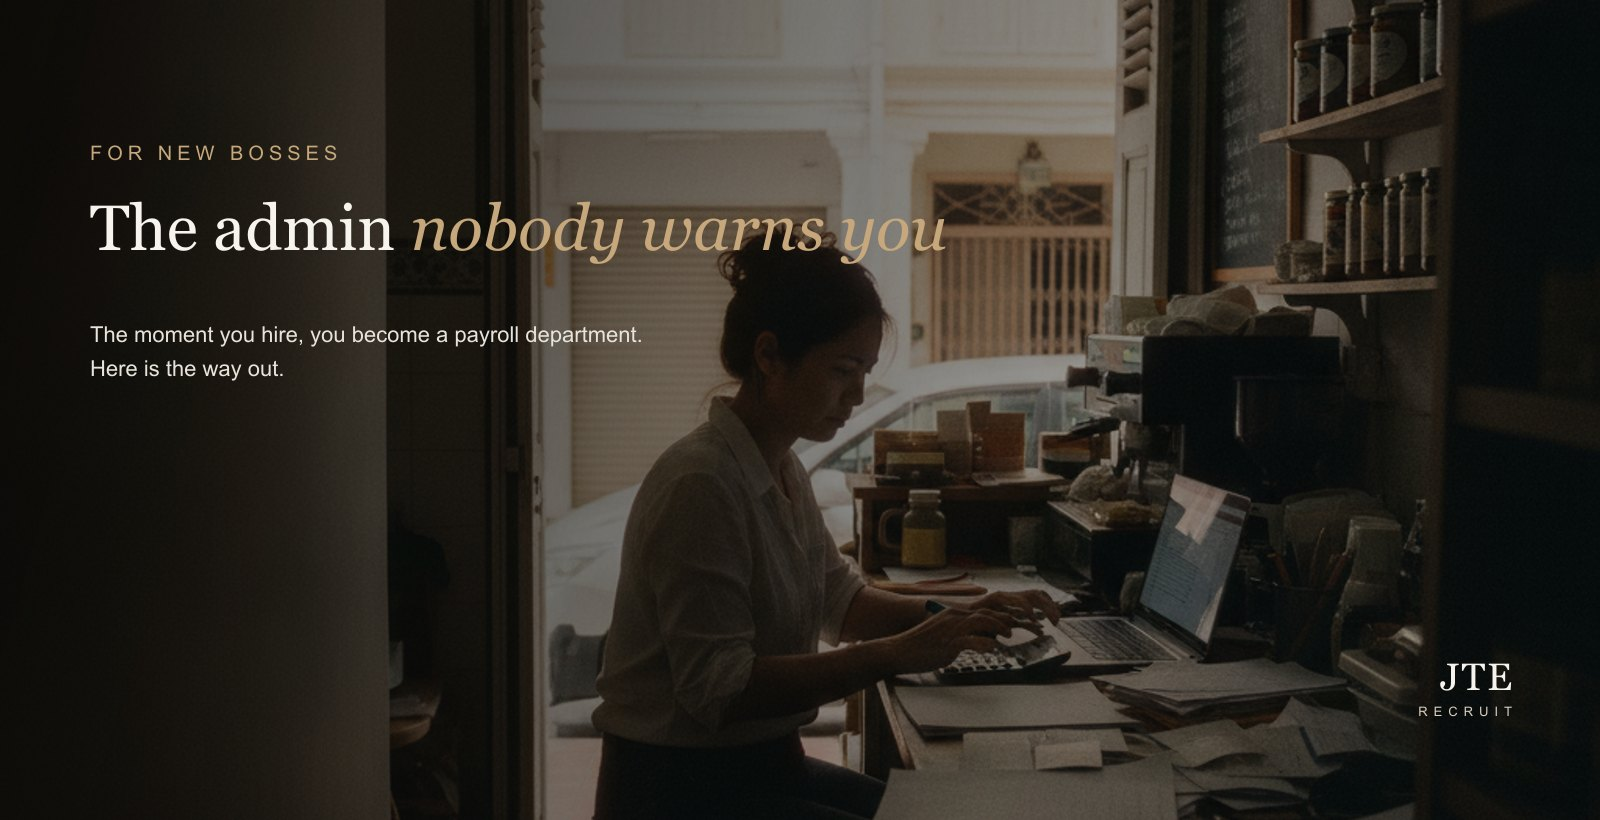
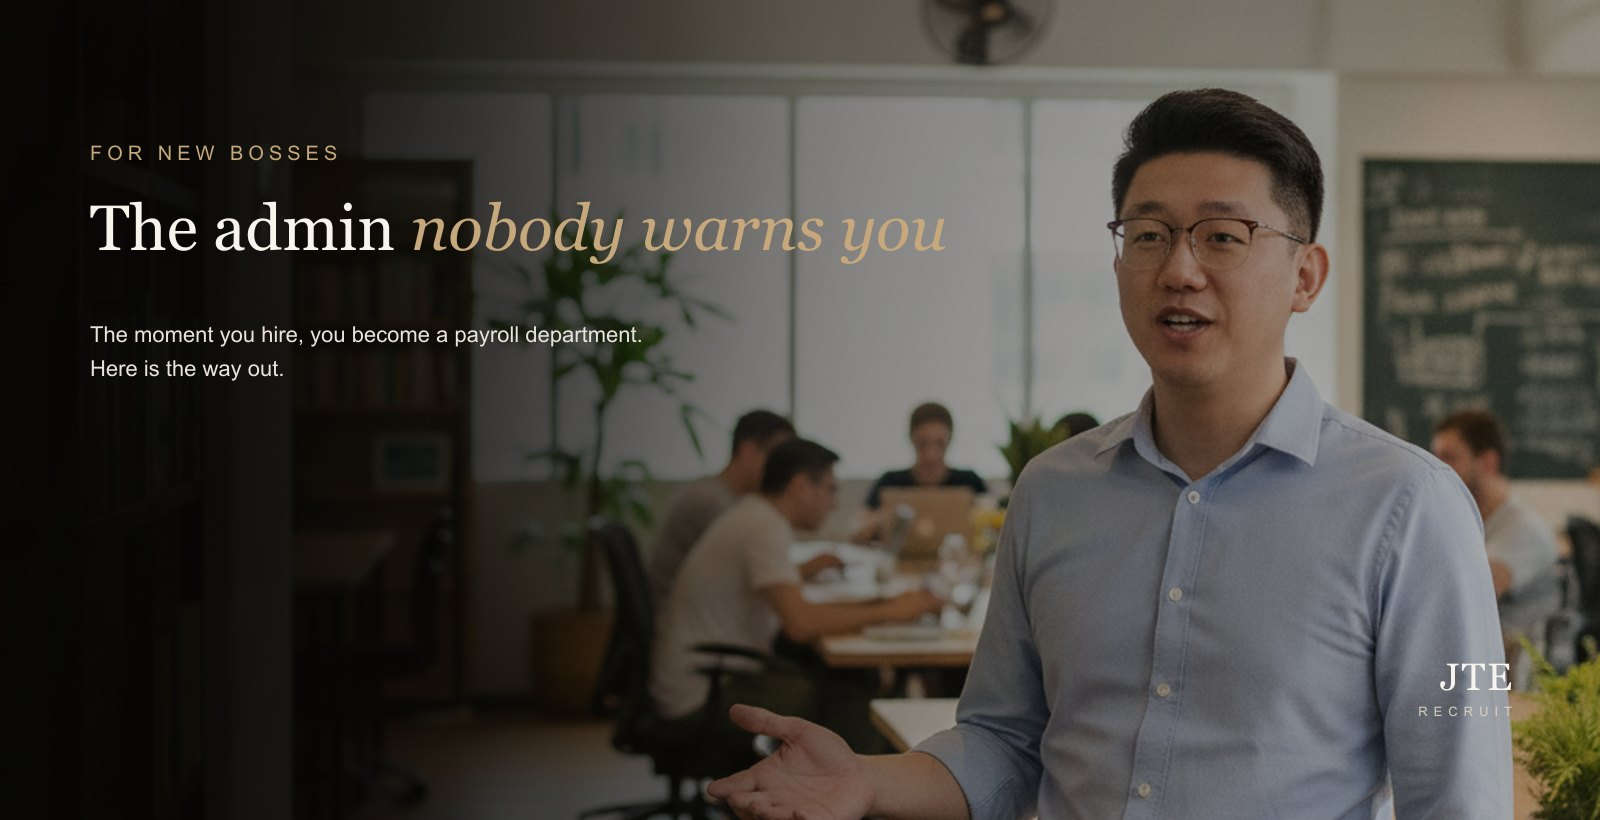
Face-based heroes on the 5 personal-POV payroll articles
Balance editorial vs personal: the POV pieces (why-first-year-free, lessons, hire-HR-or-not,
admin-nobody-warns, temp-HR) now feature Eugene's likeness (candid, no fake blur, JTE branded)
to read as him sharing a view, like his 150k-impression LinkedIn post. The 7 situational
articles keep their scene photos. 5 images, ~US$0.20.

diff --git a/content-ops/image-spend-log.md b/content-ops/image-spend-log.md
@@ -15,5 +15,7 @@ Record every generation run below: date, what it was for, how many images, est. 
 | 2026-10-31 | Test image (validate key + billing) | 1 | 0.04 |
 | 2026-10-31 | 12 payroll-cluster article heroes (first generation) | 12 | 0.48 |
 | 2026-10-31 | Re-composite 12 heroes with clean subtitles (reused cached photos, no API) | 0 | 0.00 |
+| 2026-10-31 | Face-based hero samples with Eugene's likeness (why-first-year, lessons) | 2 | 0.08 |
+| 2026-10-31 | 3 more face heroes live (hire-HR-or-not, admin-nobody, temp-HR) | 3 | 0.12 |
 
-**October 2026 total: ~US$0.52** (cap US$20).
+**October 2026 total: ~US$0.72** (cap US$20).
